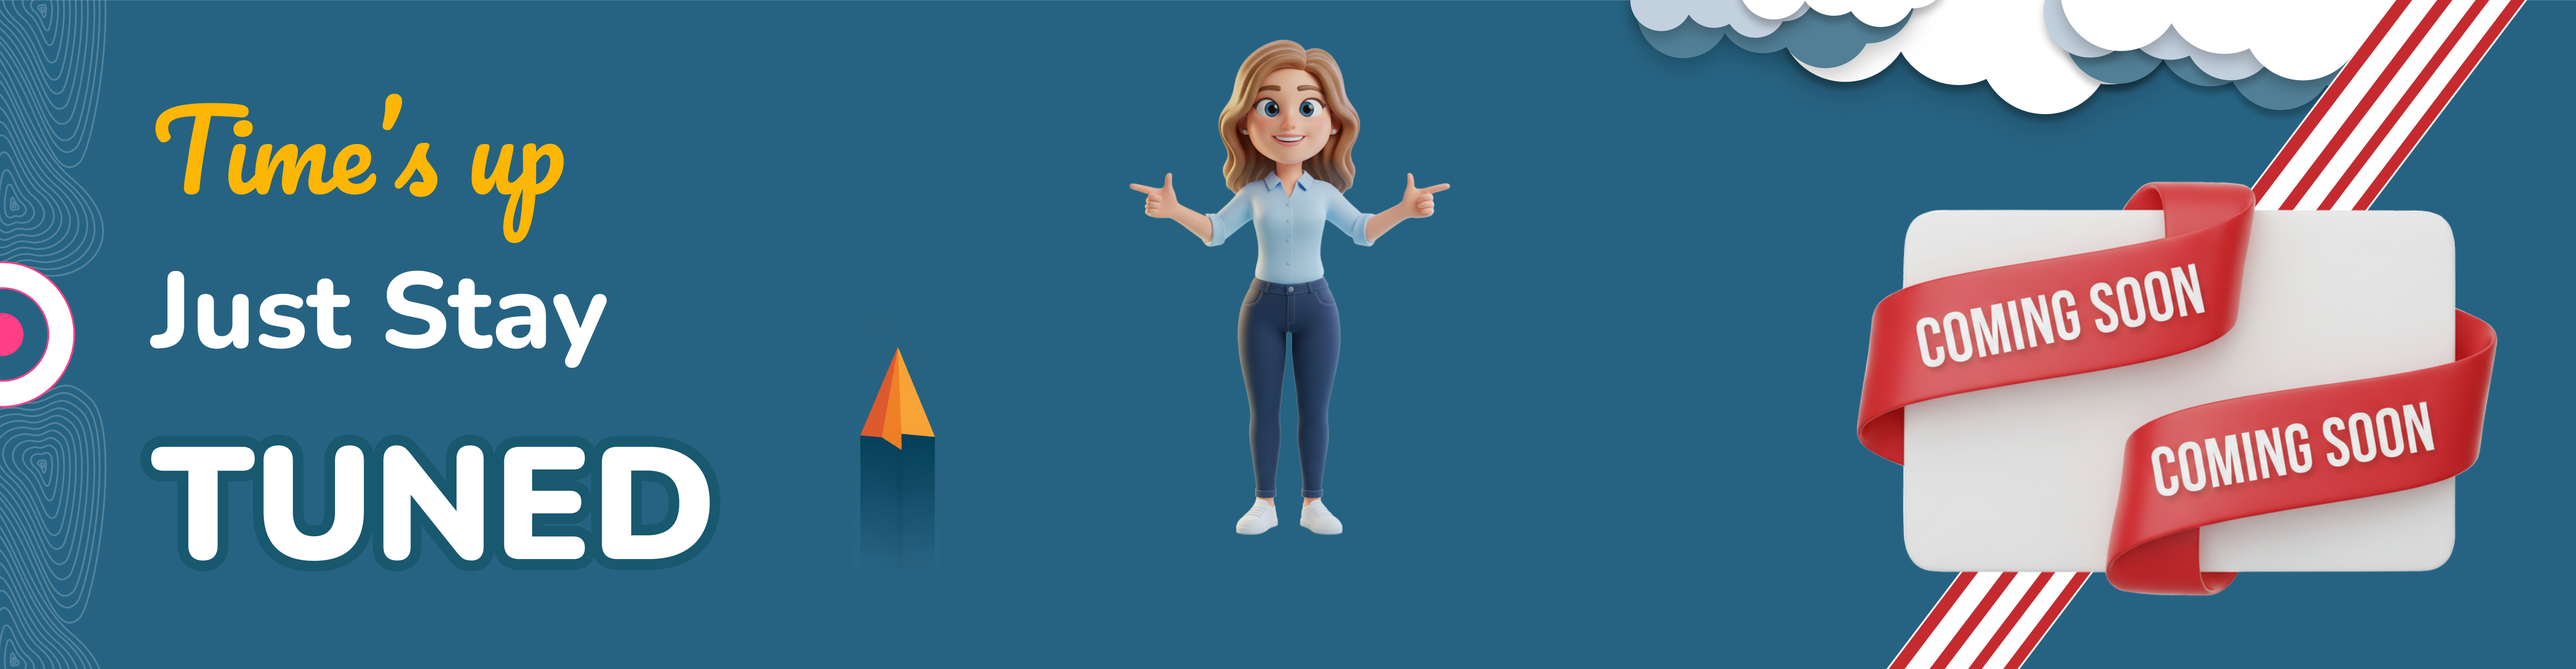
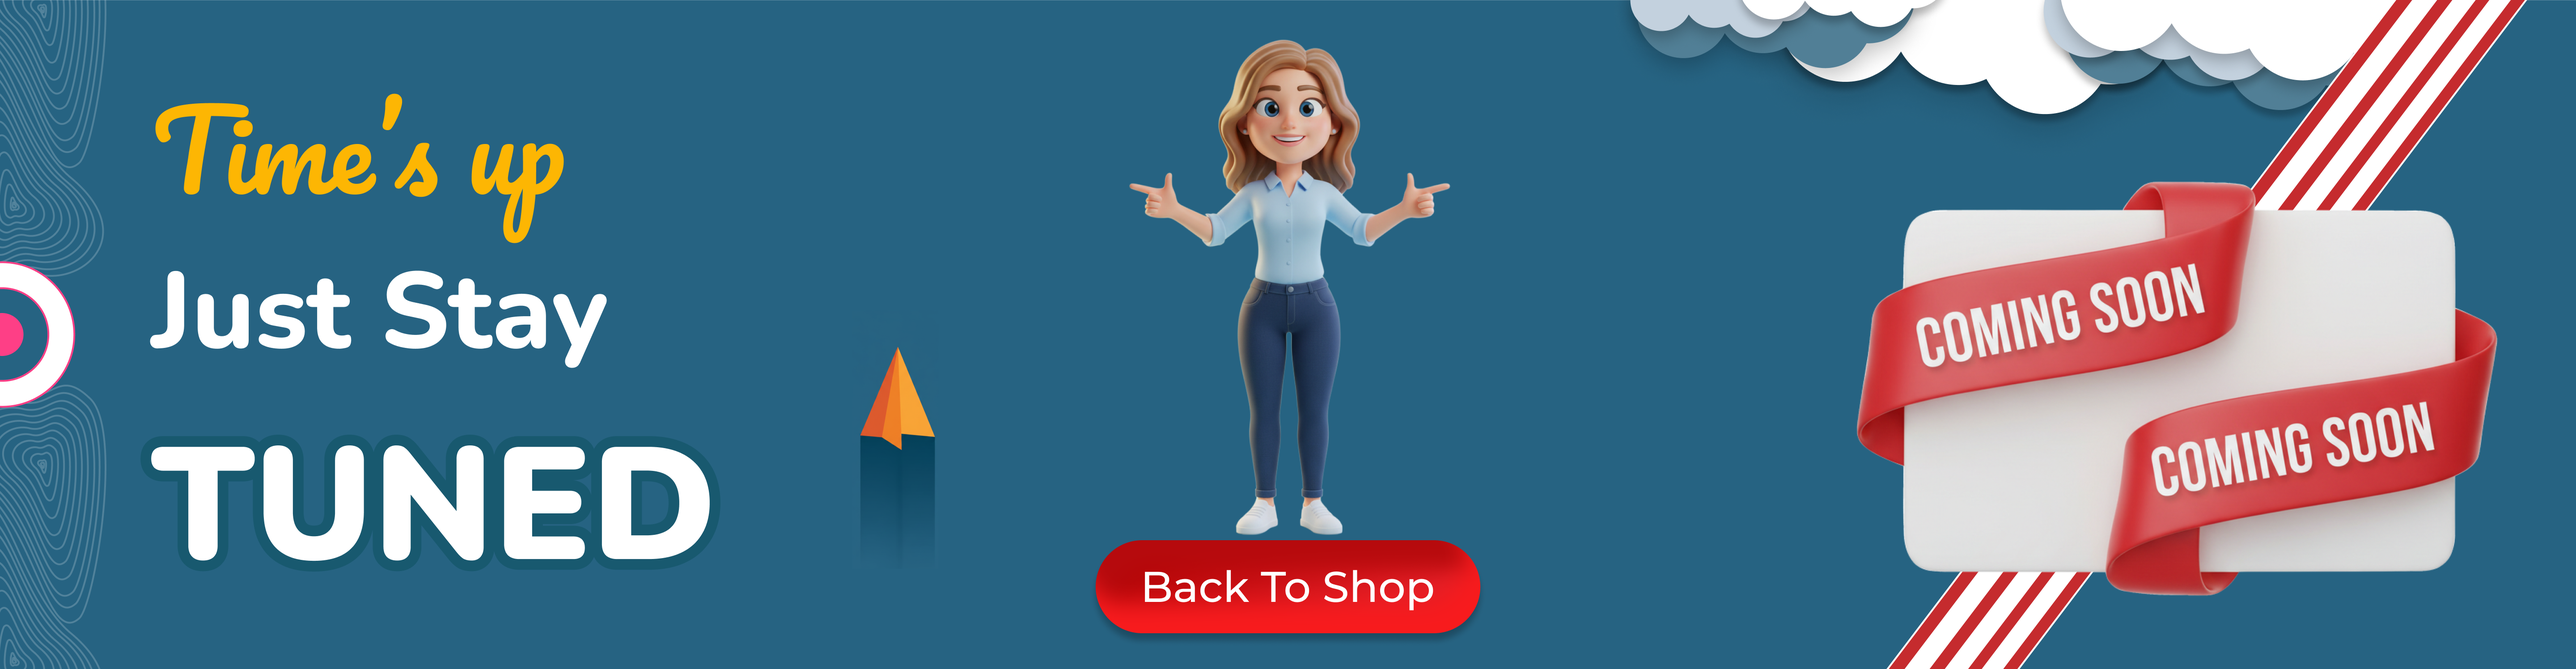
Loading DealTimeEndBanner

Changed region(s): [[0.4062, 0.7995, 0.5938, 0.9532]]

diff --git a/src/components/a2home.jsx b/src/components/a2home.jsx
@@ -39,6 +39,7 @@ function AdinnHome2() {
         () => {
             const fetchPrimeSpots = async () => {
                 try {
+                    setIsLoading(true);
                     const response = await fetch(`${baseUrl}/products`);
                     const data = await response.json();
                     const visibleProducts = data.filter(
@@ -63,16 +64,19 @@ function AdinnHome2() {
                         to: prod.to,
                         printingCost: prod.printingCost,
                         mountingCost: prod.mountingCost,
-                        latitude : prod.Latitude,
-                        longitude : prod.Longitude,
-                        LocationLink : prod.LocationLink
-                        
+                        latitude: prod.Latitude,
+                        longitude: prod.Longitude,
+                        LocationLink: prod.LocationLink
+
                     }));
                     setPrimeSpotsData(mappedPrimeSpots);
                     setIsLoading(false);
                 }
                 catch (err) {
                     console.log("Failed to fetch prime spots", err);
+                    setIsLoading(false);
+                }
+                finally {
                     setIsLoading(false);
                 }
             };
@@ -101,9 +105,9 @@ function AdinnHome2() {
             imageUrl: spot.image || spot.imageUrl,
             district: spot.location?.district || spot.district,
             state: spot.location?.state || spot.state,
-            latitude : spot.latitude,
-            longitude:spot.longitude,
-            LocationLink:spot.LocationLink
+            latitude: spot.latitude,
+            longitude: spot.longitude,
+            LocationLink: spot.LocationLink
         };
 
 
@@ -113,9 +117,6 @@ function AdinnHome2() {
         });
     };
 
-
-
-
     const NextArrow = (props) => {
         const { onClick } = props;
         return (
@@ -124,7 +125,6 @@ function AdinnHome2() {
             </div>
         );
     };
-
 
     // Custom Previous Arrow
     const PrevArrow = (props) => {
@@ -202,34 +202,42 @@ function AdinnHome2() {
     return (
         <div>
             <h1 className="heading"><span className="highlight">Prime Advertising </span> Spots</h1>
-            <div className="w-3/4 prime ">
-                <Slider {...settings}>
-                    {primeSpotsData.map((spot, index) => (
-                        <div className={`billboard-card ${index === 1 ? 'scaleZoomInLeft' : ''}`} key={spot.id} >
-                            <img src={spot.imageUrl} alt={spot.location} className="card-img-top1-home" />
-                            <span className='board-category1-home'>{spot.category}</span>
-                            <div className="board-content-home ">
-                                <div className="board-content-home-top" style={{}}>
-                                    <span className=" board-loc-home">{spot.prodName}</span>
-                                    <span className="board-dim-home">{spot.dimensions}</span>
-                                </div>
-                                <div className="board-content-home-bottom" style={{}}>
-                                    <span className="board-price-home">₹{spot.price.toLocaleString()}</span>
-                                    <img src='./images/rating_board.png' className='rate-board-home'></img>
-                                </div>
-                                <div >
-                                    <RatingStars rating={spot.rating} />
-                                    <button className="board-btn1-home"
-                                        onClick={() => handleBookNow(spot)} >Book Now</button>
+
+            {isLoading ? (
+                <div className="col-12 text-center loading-container">
+                    <img src='./images/BookLoading.svg' alt="Loading..." className="Book-loading-gif" />
+                </div>
+            ) : (
+
+                <div className="w-3/4 prime ">
+                    <Slider {...settings}>
+                        {primeSpotsData.map((spot, index) => (
+                            <div className={`billboard-card ${index === 1 ? 'scaleZoomInLeft' : ''}`} key={spot.id} >
+                                <img src={spot.imageUrl} alt={spot.location} className="card-img-top1-home" />
+                                <span className='board-category1-home'>{spot.category}</span>
+                                <div className="board-content-home ">
+                                    <div className="board-content-home-top" style={{}}>
+                                        <span className=" board-loc-home">{spot.prodName}</span>
+                                        <span className="board-dim-home">{spot.dimensions}</span>
+                                    </div>
+                                    <div className="board-content-home-bottom" style={{}}>
+                                        <span className="board-price-home">₹{spot.price.toLocaleString()}</span>
+                                        <img src='./images/rating_board.png' className='rate-board-home'></img>
+                                    </div>
+                                    <div >
+                                        <RatingStars rating={spot.rating} />
+                                        <button className="board-btn1-home"
+                                            onClick={() => handleBookNow(spot)} >Book Now</button>
+                                    </div>
                                 </div>
                             </div>
-                        </div>
-                    ))}
+                        ))}
 
-                </Slider>
+                    </Slider>
 
 
-            </div>
+                </div>
+            )}
         </div>
     );
 }

diff --git a/src/components/a3home.jsx b/src/components/a3home.jsx
@@ -169,28 +169,13 @@ function AdinnHome3() {
         ]
     };
 
-    //TEXT COLOR AUTOMATICALLY CHANGED BASED ON THE BACKGROUND IMAGE
-    // const img = document.getElementById("bgImage");
-    //   const textContainer = document.getElementById("textContainer");
-    //   const colorThief = new ColorThief();
-    //   function updateTextColor() {
-    //     try {
-    //       const color = colorThief.getColor(img);
-    //       const brightness = (color[0] * 299 + color[1] * 587 + color[2] * 114) / 1000;
-    //       textContainer.style.color = brightness > 150 ? "black" : "white";
-    //     } catch (e) {
-    //       console.warn("Color extraction failed:", e);
-    //     }
-    //   }
-    //   if (img.complete) {
-    //     updateTextColor();
-    //   } else {
-    //     img.addEventListener('load', updateTextColor);
-    //   }
 
     const [blogData, setBlogData] = useState([]);
+        const [isLoading, setIsLoading] = useState(true); // Add loading state
+
     const fetchBlogs = async () => {
         try {
+            setIsLoading(true);
             const response = await fetch(`${baseUrl}/BlogAdd/getBlog`);
             const data = await response.json();
             setBlogData(data);
@@ -198,12 +183,14 @@ function AdinnHome3() {
         catch (err) {
             console.log("Failed to fetch Blogs", err);
         }
+         finally {
+            setIsLoading(false);
+        }
     }
     useEffect(() => {
         fetchBlogs();
     }, []);
- const handleBlogClick = (blogId) => {
-        // navigate(`/Blog/${blog}`); // Navigate to blog details page with ID
+    const handleBlogClick = (blogId) => {
         navigate(`/Blog/${blogId}`); // Navigate to blog details page with ID
 
 
@@ -232,18 +219,23 @@ function AdinnHome3() {
             {/* OOH Insights  section  */}
             <div className='ooh '>
                 <h1 className='heading'><span className='highlight'>OOH </span>Insights</h1>
+                   {isLoading ? (
+                    <div className="col-12 text-center loading-container">
+                        <img src='./images/BookLoading.svg' alt="Loading..." className="Book-loading-gif" />
+                    </div>
+                ) : (
                 <div className='ooh-content '>
                     <Slider {...settings}>
                         {
                             blogData.map((blog, _id) => (
                                 <div className='ooh-inside' key={blog._id} >
                                     <div className='ooh-inside-content'
-                                    onClick={() => handleBlogClick(blog._id)}>
+                                        onClick={() => handleBlogClick(blog._id)}>
                                         <img
                                             // ref={el => imageRefs.current[0] = el}
                                             src={blog.blogImage} className='ooh-img'
                                             crossOrigin="anonymous" // Important for ColorThief to work
-                                            id='bgImage'ref={el => imageRefs.current[_id] = el}></img>
+                                            id='bgImage' ref={el => imageRefs.current[_id] = el}></img>
                                         <div className='eye'>
                                             <div className='eye-content'>
                                                 {/* <span><img src='./images/ooh4.png' className='eyeImg'></img></span>
@@ -267,15 +259,14 @@ function AdinnHome3() {
                                                 </div>
                                             </div>
                                             <button className='ooh-btn'>Read More &nbsp; <img src='./images/Arrow_btn.png' className='arrow'></img></button>
-
-
                                         </div>
                                     </div>
                                 </div>
                             ))
-                        }  
+                        }
                     </Slider>
                 </div>
+                )}
             </div>
         </div>
     )

diff --git a/src/components/H1DealDay.jsx b/src/components/H1DealDay.jsx
@@ -1048,7 +1048,7 @@ import MainFooter from './A1FOOTER.jsx';
 import { useSpot } from "./B0SpotContext";
 import { useNavigate } from "react-router-dom";
 import slugify from 'slugify';
-//BASE URL OF http://localhost:3001 FILE IMPORT 
+//BASE URL OF http://localhost:3001 FILE IMPORT
 import { baseUrl } from '../Adminpanel/BASE_URL';
 import { Statistic } from 'antd';
 const { Countdown } = Statistic;
@@ -1678,7 +1678,7 @@ function H1DealDay() {
                 {timerEnded ?
                     (
                         <div className='container-fluid TimerEndedMain ' onClick={() => navigate("/book")}   >
-                            <img src='./images/DealTimerEndBannerFinal.png' ></img>
+                            <img src='./images/DealTimerEndedFinal1.png' ></img>
                         </div>
                     ) : (
 
@@ -1983,7 +1983,7 @@ function H1DealDay() {
                                         {/* Show loading animation while data is being fetched */}
                                         {isLoading ? (
                                             <div className="col-12 text-center loading-container">
-                                                <img src='./images/BookLoading.gif' alt="Loading..." className="loading-gif" />
+                                                <img src='./images/BookLoading.svg' alt="Loading..." className="Book-loading-gif" />
                                             </div>
                                         ) : currentSpots.length > 0 ? (
                                             currentSpots.map((spot) => (

diff --git a/src/App.js b/src/App.js
@@ -31,19 +31,17 @@ import ProtectedRoute from './components/PROTECTED_ROUTE.jsx';
 import { AdminAuthWrapper } from './Adminpanel/AdminAuthWrapper.jsx';
 import EnquireUserTable from './Adminpanel/ad1EnquireUsers.jsx';
 import PreLoader from './components/PreLoad.jsx';
-
+//Rich Text 
 import RichText from './Adminpanel/RichText.jsx';
-
 //BLOG PAGE
 import BlogPage from './components/G1BlogPage.jsx';
 import BlogPageAdmin from './Adminpanel/ad2BlogAddPg.jsx';
-
 //Deal of the Day
 import DealOfTheDay from './components/H1DealDay.jsx';
-
 //DEAL OF THE DAY SCROLL ANIMATION
 import DealScrollAnimation from './components/H2DealScroll.jsx';
-
+// Scroll to Top Component
+import ScrollToTop from './SCROLL_TO_TOP.jsx';
 function App() {
   const [load, upadateLoad] = useState(true);
 
@@ -62,6 +60,8 @@ function App() {
           {/* <CartProvider> */}
           <Router>
             <PreLoader load={load} />
+            {/* Scroll to Top Component - Add this */}
+            <ScrollToTop />
             {/* <Navbar/> */}
             <Routes>
               {/* IF USER GIVE ANY WRONG / NOT FOUND THEN SHOW THIS PAGE  */}
@@ -69,7 +69,6 @@ function App() {
               {/* Hero Section  */}
               {/* <Route path="/" element={<HeroSection />} /> */}
               <Route path="/" element={<HeroBanner />} />
-
               <Route path="/hero" element={<HeroSection1 />} />
               {/* AboutUs Home section  */}
               <Route path="/home" element={<AdinnHome />} />

diff --git a/src/components/H1DealDay.css b/src/components/H1DealDay.css
@@ -236,7 +236,7 @@
 
 
 .DealTimerEndBanner {
-    background: url('/public/images/DealTimerEndBanner.png');
+    /* background: url('/public/images/DealTimerEndBanner.png'); */
     background-position: cover;
     background-size: 100% 100%;
     background-repeat: no-repeat;
@@ -567,7 +567,7 @@
     }
 
     .DealTimerEndBanner {
-        background: url('/public/images/DealTimerEndMobileBanner.png');
+        /* background: url('/public/images/DealTimerEndMobileBanner.png'); */
         background-position: cover;
         background-size: 100% 100%;
         background-repeat: no-repeat;

diff --git a/src/SCROLL_TO_TOP.jsx b/src/SCROLL_TO_TOP.jsx
@@ -1,0 +1,15 @@
+import { useEffect } from 'react';
+import { useLocation } from 'react-router-dom';
+
+const ScrollToTop = () => {
+  const { pathname } = useLocation();
+
+  useEffect(() => {
+    // Scroll to top when route changes
+    window.scrollTo(0, 0);
+  }, [pathname]);
+
+  return null;
+};
+
+export default ScrollToTop;
